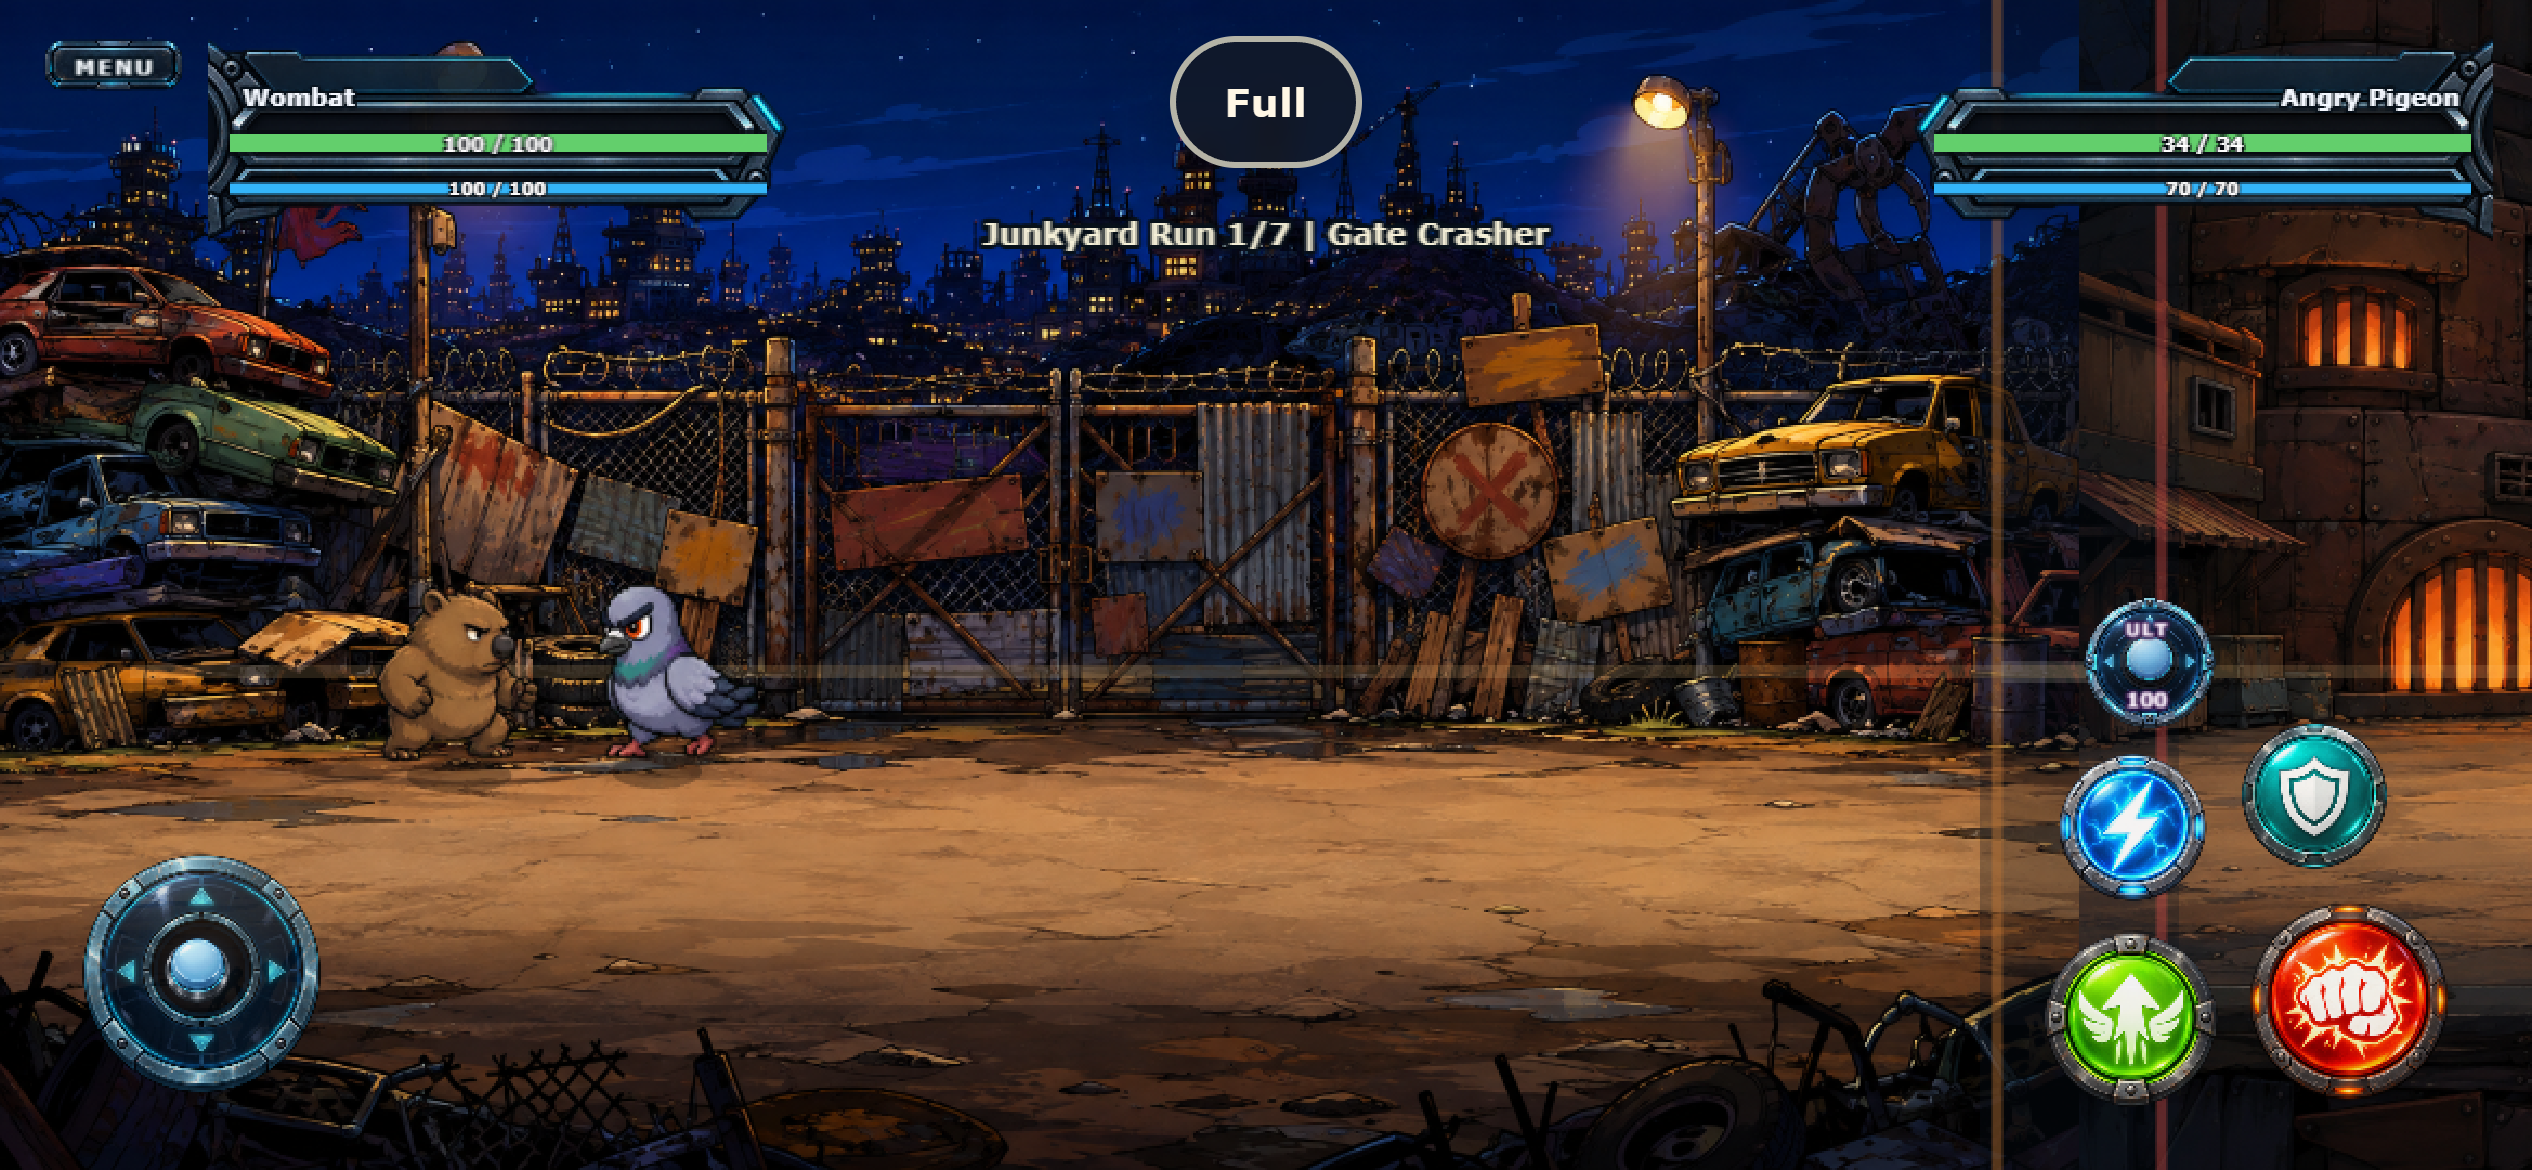
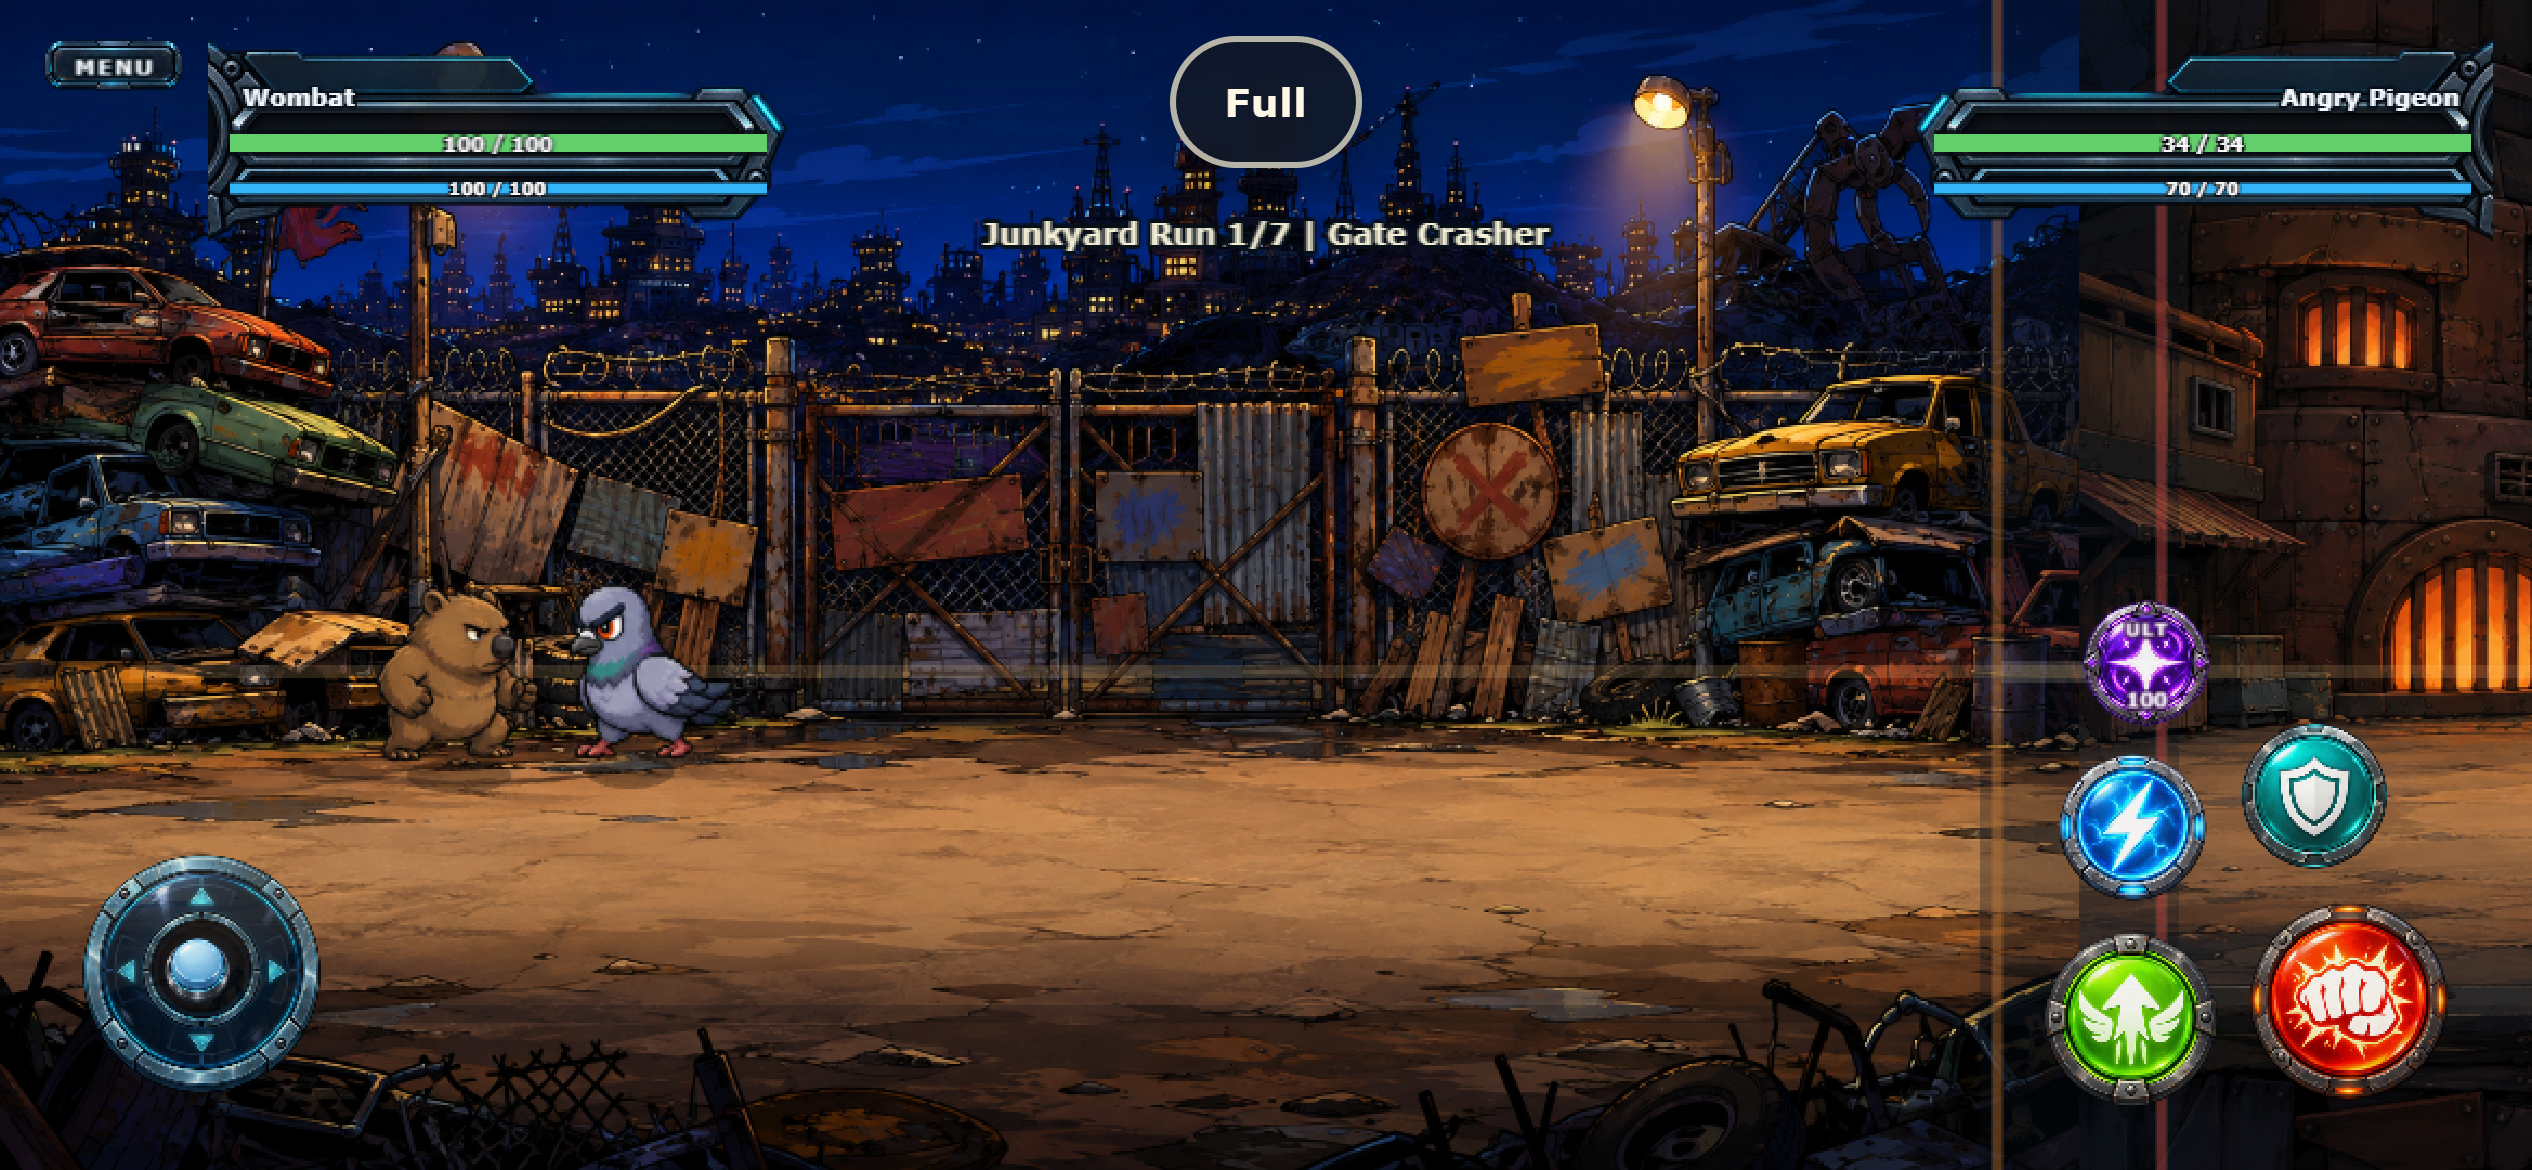
Fix ultimate button asset mapping

Changed region(s): [[0.2184, 0.4923, 0.312, 0.6769], [0.8112, 0.4923, 0.8736, 0.6154]]

diff --git a/tests/battle-ui-assets.test.ts b/tests/battle-ui-assets.test.ts
@@ -1,0 +1,39 @@
+import assert from 'node:assert/strict';
+import { readFileSync } from 'node:fs';
+import test from 'node:test';
+import { PNG } from 'pngjs';
+
+const assetUrl = (name: string) =>
+  new URL(`../public/assets/ui/battle/${name}`, import.meta.url);
+
+const opaqueColorRatio = (
+  png: PNG,
+  predicate: (red: number, green: number, blue: number) => boolean,
+) => {
+  let opaquePixels = 0;
+  let matchingPixels = 0;
+
+  for (let index = 0; index < png.data.length; index += 4) {
+    const alpha = png.data[index + 3];
+    if (alpha <= 64) continue;
+
+    opaquePixels += 1;
+    if (predicate(png.data[index], png.data[index + 1], png.data[index + 2])) {
+      matchingPixels += 1;
+    }
+  }
+
+  return matchingPixels / opaquePixels;
+};
+
+test('ultimate button keeps its purple star asset instead of the cyan joystick artwork', () => {
+  const ultimate = PNG.sync.read(readFileSync(assetUrl('ultimate_button.png')));
+  const joystick = PNG.sync.read(readFileSync(assetUrl('joystick_base.png')));
+  const isPurple = (red: number, green: number, blue: number) =>
+    red > 90 && blue > 100 && blue > green * 1.2 && red > green * 1.15;
+
+  assert.equal(ultimate.width, 256);
+  assert.equal(ultimate.height, 256);
+  assert.ok(opaqueColorRatio(ultimate, isPurple) > 0.25);
+  assert.ok(opaqueColorRatio(joystick, isPurple) < 0.05);
+});

diff --git a/docs/qa/ui-controls-2026-09-09/README.md b/docs/qa/ui-controls-2026-09-09/README.md
@@ -40,7 +40,8 @@ im selben Materialstil erzeugt.
 
 ## Verifikation
 
-- 96/96 Unit-Tests bestanden.
+- 97/97 Unit-Tests bestanden. Ein Asset-Regressionstest verhindert, dass der violette
+  Ultimate-Button erneut mit der cyanfarbenen Joystick-Grafik vertauscht wird.
 - Typecheck und Production Build bestanden.
 - Mobile Runtime: Landscape, Portrait-Rotation und Wide Landscape ohne Verzerrung.
 - Fünf getrennte Rand-Taps lösen exakt die jeweilige Aktion aus.
